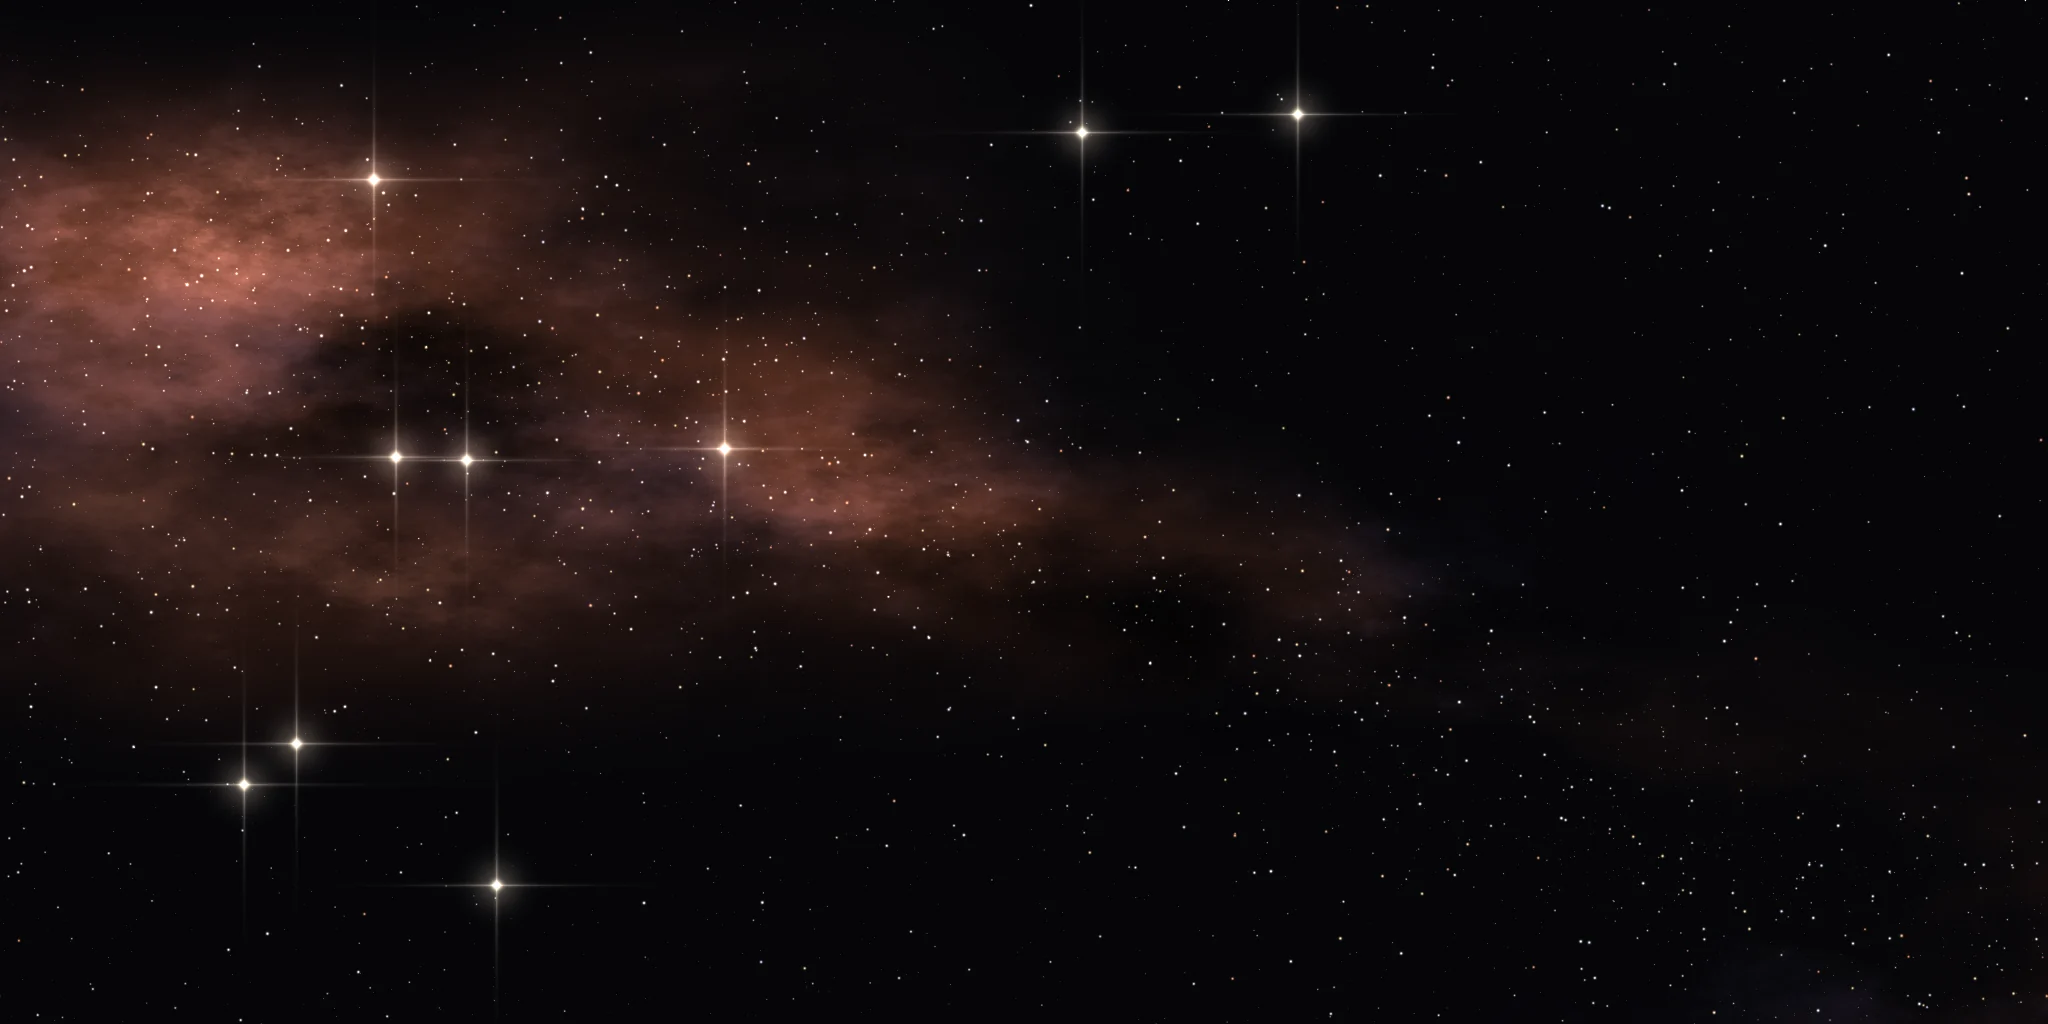
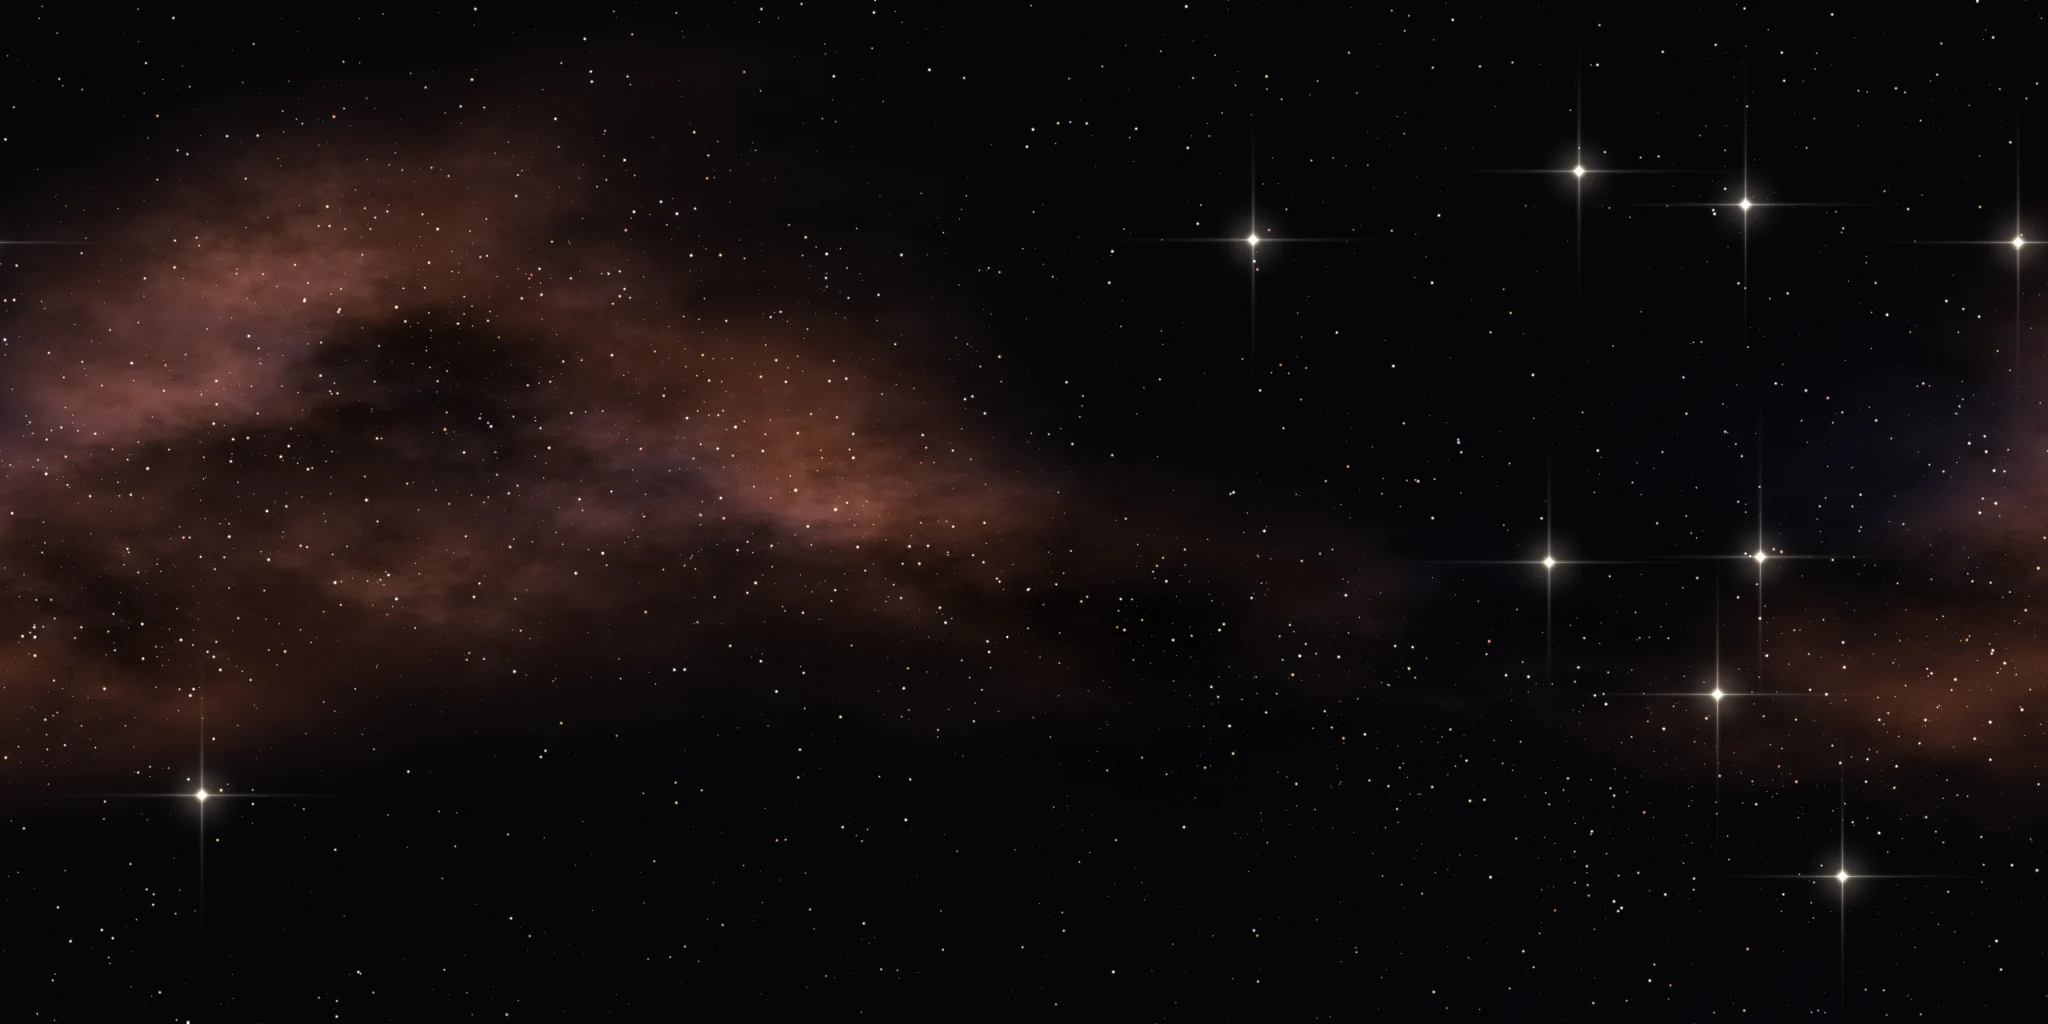
Kosmos z intra kafelkuje się w poziomie, a nowa wersja tekstur intra omija stary cache.
Claude-Session: https://claude.ai/code/session_01NVrXm1pjNME63bXNHMMkj9

diff --git a/public/intro.js b/public/intro.js
@@ -132,7 +132,7 @@ function sphere(lat, lon, radius, spin) {
 // ------------------------------------------------------------------ TEKSTURY INTRA
 // Pliki w public/tex/intro/ robi docs/intro_generator.py. Plan i mapowanie: docs/INTRO_TEKSTURY.md.
 // Bez tekstur (nie doszły albo „Tekstury HD” wyłączone) intro rysuje się płasko, jak wcześniej.
-const TEX_VER = "1";
+const TEX_VER = "2";
 const TEX_FILES = ["space", "planet_surface", "planet_glow", "hall_wall", "hall_floor", "hall_ceiling", "hall_gate"];
 // Pikseli bufora na klatkę (sala i planeta liczone piksel po pikselu). Budżet sam się dobiera:
 // schodzi, gdy rysowanie sali trwa ponad 8 ms, i wraca, gdy jest zapas.

diff --git a/docs/intro_generator.py b/docs/intro_generator.py
@@ -76,14 +76,16 @@ def maze_cells(n, seed):
 # ------------------------------------------------------------------ KOSMOS
 
 def space_tex():
-    """Tło kosmosu 2048×1024: mgławica w miedzi i popiele, gęste gwiazdy. Rysowane jako plansza za planetą."""
+    """Tło kosmosu 2048×1024: mgławica w miedzi i popiele, gęste gwiazdy. Rysowane jako plansza za planetą.
+    Kafelkuje się w poziomie (lewa i prawa krawędź się zgadzają), więc nadaje się też na panoramę."""
     W, H = 2048, 1024
     rng = np.random.default_rng(1201)
     ys, xs = np.mgrid[0:H, 0:W].astype(float)
     base = np.zeros((H, W, 3)) + np.array([5, 5, 8.0])
     n1 = fbm(H, W, 2.1, 1202); n2 = fbm(H, W, 1.5, 1203); n3 = fbm(H, W, 2.8, 1204)
     # ukośna wstęga mgławicy
-    band = np.exp(-(((ys / H - 0.55) - (xs / W - 0.5) * 0.55 + (n3 - 0.5) * 0.35) / 0.17) ** 2)
+    # wstęga faluje okresowo w poziomie (sinus po pełnym obwodzie), więc nie ma szwu na krawędzi
+    band = np.exp(-(((ys / H - 0.55) + 0.14 * np.sin(xs / W * 2 * np.pi + 0.4) + (n3 - 0.5) * 0.35) / 0.17) ** 2)
     neb = smooth(0.35, 0.9, n1) * band
     base += np.array([118, 60, 36.0]) * (neb * (0.6 + 0.8 * n2))[..., None]
     base += np.array([40, 34, 52.0]) * (smooth(0.4, 0.8, n2) * band * 0.8)[..., None]
@@ -102,7 +104,7 @@ def space_tex():
     for oy in range(-3, 4):
         for ox in range(-3, 4):
             px = (sx.astype(int) + ox) % W; py = np.clip(sy.astype(int) + oy, 0, H - 1)
-            d = np.hypot(px + 0.5 - sx - np.where(px - sx.astype(int) < -3, -W, 0), py + 0.5 - sy)
+            d = np.hypot((px + 0.5 - sx + W / 2) % W - W / 2, py + 0.5 - sy)
             rad = 0.55 + mag * 1.5
             val = np.exp(-(d / rad) ** 2 * 2.2) * (0.2 + mag)
             np.add.at(acc, (py, px), tint * val[:, None])
@@ -110,9 +112,10 @@ def space_tex():
     # kilka jasnych gwiazd z krzyżem dyfrakcyjnym
     for _ in range(9):
         cx, cy = rng.uniform(0, W), rng.uniform(H * 0.1, H * 0.9)
-        d = np.hypot(xs - cx, ys - cy)
+        dxw = (xs - cx + W / 2) % W - W / 2  # odległość z zawinięciem w poziomie
+        d = np.hypot(dxw, ys - cy)
         glow = np.exp(-(d / 5) ** 2) + 0.25 * np.exp(-(d / 22) ** 2)
-        spike = (np.exp(-np.abs(ys - cy) / 1.1) * np.exp(-np.abs(xs - cx) / 46) + np.exp(-np.abs(xs - cx) / 1.1) * np.exp(-np.abs(ys - cy) / 46)) * 0.5
+        spike = (np.exp(-np.abs(ys - cy) / 1.1) * np.exp(-np.abs(dxw) / 46) + np.exp(-np.abs(dxw) / 1.1) * np.exp(-np.abs(ys - cy) / 46)) * 0.5
         base += np.array([255, 236, 210.0]) * (glow + spike)[..., None]
     return base
 
